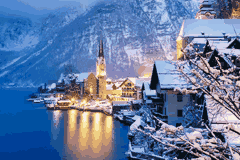
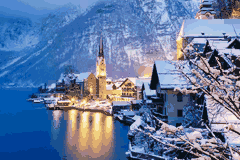
bg: address #256 review -- 6-palette fade path, empty banks, 5-bit palette
Five findings from /code-review medium, all real:

- The "8 banks is the engine's budget" claim only holds for a plain BACG.
  sub_800EC50/sub_800ED50 (ConvoBackgroundFadeProc) apply SIX palettes, so an
  8-bank BG shown through a transition/fade-in subcode loses banks 6-7 and
  nothing in the build catches it. Documented, with the --banks 6 escape hatch
  and an explicit note that Bremen is banked at 8 -- ch07 must use a plain BACG
  or reconvert. Ch01's ending is BACG + FADU, so 8 is correct there.
- --banks was unvalidated: 12 emitted a BG the engine cannot load, 20 died
  inside PIL on a negative pad. Now 1..8 with the reason in the message.
- bank_cluster could converge with empty banks and still report 8, which is the
  wasted-budget failure it exists to fix. Unused banks are compacted away, so
  the printed count is the count used (both CGs: 8/8, verified).
- The try wrapped the palette build and pixel remap as well as bank_pack, so an
  unrelated ValueError would have swallowed a good lossless result and shipped
  the lossy one. Narrowed to bank_pack alone.
- MEDIANCUT returns cluster averages, off the GBA 5-bit grid (152/360 channels
  were), and gbagfx truncates -- shipping colours the indices weren't chosen
  for. Snapped and deduped; both CGs now read 0 off-grid channels.

Both CGs re-converted: 8/8 banks used, 0 off-grid, 0 mixed-bank tiles, index 0
unused, and bg_TargosWinter.png still round-trips byte-identically.

diff --git a/tools/bg_to_fe8.py b/tools/bg_to_fe8.py
@@ -52,11 +52,17 @@ def to_tiles(a):
 
 
 def _quantise_pixels(px, n):
-    """MEDIANCUT palette of at most n colours for a pixel list (N,3) -> (m,3), m <= n."""
+    """MEDIANCUT palette of at most n colours for a pixel list (N,3) -> (m,3), m <= n.
+
+    Snapped back onto the GBA 5-bit grid: MEDIANCUT returns cluster AVERAGES, which land
+    off-grid even when every input pixel was on it, and gbagfx truncates the low 3 bits on
+    its way into the .gbapal -- so an unrounded palette means the ROM shows colours the tool
+    never chose its indices for. Rounding can also collide two entries; dedupe, since a
+    duplicate would be a bank slot spent on a colour already available."""
     im = Image.fromarray(px.astype('uint8').reshape(-1, 1, 3)).quantize(
         colors=n, method=Image.MEDIANCUT, dither=Image.NONE)
     pal = np.array(im.getpalette()[:n * 3], dtype=np.int32).reshape(-1, 3)
-    return pal[np.unique(np.array(im))]
+    return np.unique((pal[np.unique(np.array(im))] >> 3) << 3, axis=0)
 
 
 def _tile_err(tiles, pal):
@@ -98,7 +104,12 @@ def bank_cluster(tiles, nbanks=8, per_bank=15, rounds=6):
         if np.array_equal(nxt, assign):
             break
         assign = nxt
-    return assign, banks
+    # A bank no tile chose is a bank of the budget WASTED -- the exact failure this function
+    # exists to fix -- so compact it away rather than reporting a count nothing uses. (It
+    # happens: an emptied bank is re-seeded from the whole image and rarely wins a tile back.)
+    used = sorted(set(assign.tolist()))
+    remap = {b: i for i, b in enumerate(used)}
+    return np.array([remap[b] for b in assign.tolist()]), [banks[b] for b in used]
 
 
 def bank_pack(idx):
@@ -148,6 +159,12 @@ def main(argv):
     ap.add_argument('--banks', type=int, default=8,
                     help='bank budget when the source needs refitting (<=8)')
     args = ap.parse_args(argv)
+    # 8 is a hardware/engine ceiling, not a preference: eventscr.c gives a BACG background
+    # palettes 8-15 (ApplyPalettes(pal, 8, 8)). A higher budget emits a BG the engine cannot
+    # load; >20 dies inside PIL on a negative pad instead of saying so.
+    if not 1 <= args.banks <= 8:
+        sys.exit('ERROR: --banks must be 1..8 (FE8 gives a BACG background 8 palettes); got %d'
+                 % args.banks)
 
     rgb = fit_240x160(Image.open(args.src), args.fit)
     a = (np.array(rgb) >> 3) << 3                       # GBA 5-bit depth
@@ -161,7 +178,15 @@ def main(argv):
     # when that is impossible do we refit the banks (lossy) -- which keeps every already-shipped
     # BG converting byte-identically.
     try:
-        tile_bank, banks = bank_pack(idx)
+        packed = bank_pack(idx)
+    except ValueError as e:
+        packed, why = None, str(e)
+
+    # Only bank_pack's own "cannot be represented" ValueError may fall through to clustering: a
+    # ValueError from the palette build below is a BUG, and swallowing it would silently ship the
+    # lossy conversion in place of a good lossless one.
+    if packed is not None:
+        tile_bank, banks = packed
         how = 'packed'
         # Build the banked palette (N*16 entries) and remap every pixel to bank*16+local.
         # Local index 0 is the reserved transparent slot (kept black); real colours start at 1.
@@ -177,8 +202,8 @@ def main(argv):
             block = idx[ty * 8:ty * 8 + 8, tx * 8:tx * 8 + 8]
             out_idx[ty * 8:ty * 8 + 8, tx * 8:tx * 8 + 8] = \
                 np.vectorize(lambda c: bank * 16 + local[c])(block)
-    except ValueError as e:
-        how = 'clustered (%s)' % e
+    else:
+        how = 'clustered (%s)' % why
         tiles = to_tiles(a)
         assign, banks = bank_cluster(tiles, nbanks=args.banks)
         pal, out_idx = [], np.zeros((H, W), dtype=np.uint8)

diff --git a/docs/decisions.md b/docs/decisions.md
@@ -2626,10 +2626,23 @@ all. A dithered source checkerboards two shades pixel-by-pixel, so a single 8×8
 - So `bank_cluster` fits 8 palettes of 15 to the picture: seed by tile mean colour (farthest-point,
   deterministic), then alternate *requantise each bank from its assigned tiles' pixels* / *reassign each
   tile to the bank that reproduces it with least error*. Both steps only lower error, so it converges.
-- **8 is exactly the engine's budget, not a guess:** `eventscr.c` loads a BG with
+- **8 is the engine's budget for a plain `BACG`, and only that:** `eventscr.c` loads one with
   `ApplyPalettes(pal, 8, 8)` + a `0x8000` TSA base, i.e. banks 0–7 → hardware palettes 8–15.
+  **The FADE/TRANSITION path applies only 6** — `sub_800EC50` / `sub_800ED50`
+  (`ConvoBackgroundFadeProc`) call `ApplyPalettes(pal, 0, 6)` / `(pal, 8, 6)`. An 8-bank BG shown
+  through those loses banks 6–7 and renders garbage in whatever they cover, and nothing in the
+  build catches it. So a BG destined for a transition/fade-in subcode is converted
+  **`--banks 6`**; `--banks` is validated 1..8 for that reason (`bg_to_fe8.py` refuses more, since
+  no path can load them). Ch01's ending is a plain `BACG` + `FADU`, hence 8. **Bremen is banked at
+  8: ch07 must either show it with a plain `BACG` or reconvert it at 6.**
 - **The packing path is kept and tried first**, so every already-shipped BG still converts
   byte-identically (asserted on `bg_TargosWinter.png`); clustering is lossy and only the fallback.
+- **A bank no tile chose is compacted away**, so the reported bank count is the count actually
+  used — an emptied bank is re-seeded from the whole image and rarely wins a tile back, which
+  would otherwise reproduce the wasted-budget failure the function exists to fix while printing 8.
+- **Bank palettes are snapped back to the 5-bit grid.** MEDIANCUT returns cluster AVERAGES, which
+  land off-grid even when every input pixel was on it; gbagfx then truncates the low 3 bits, so an
+  unrounded palette ships colours the tool never chose its indices for.
 - Squared distances are computed in **int32**. In int16 a channel delta squares to 65025, wraps
   negative, and `argmin` then picks the **worst** bank — which renders as bright blotches in dark
   regions. Caught by looking at the output, exactly as the index-0 gotcha above was.
